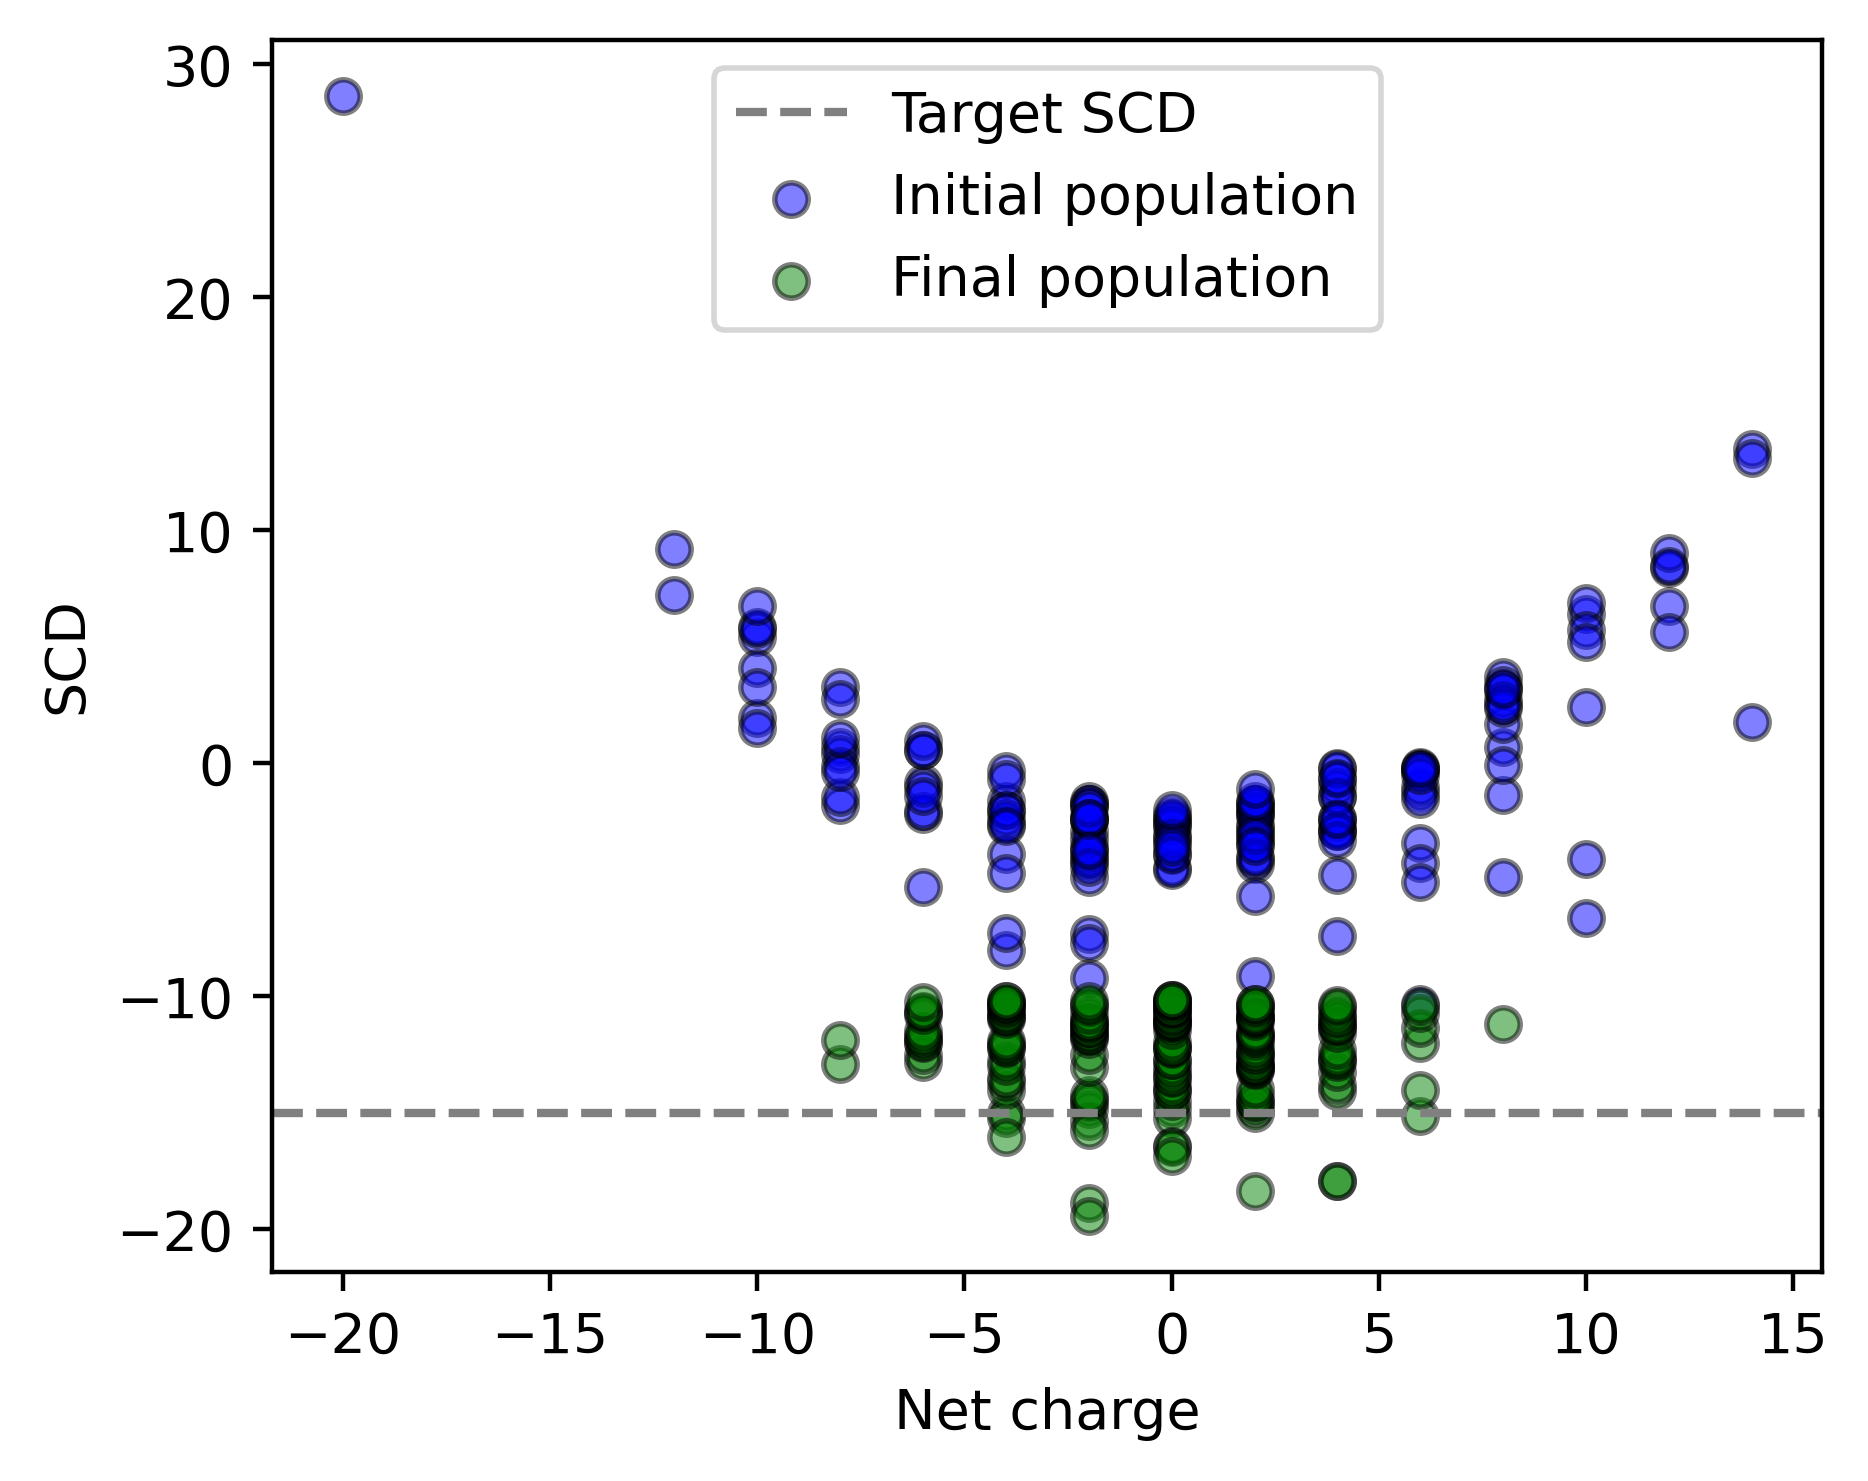
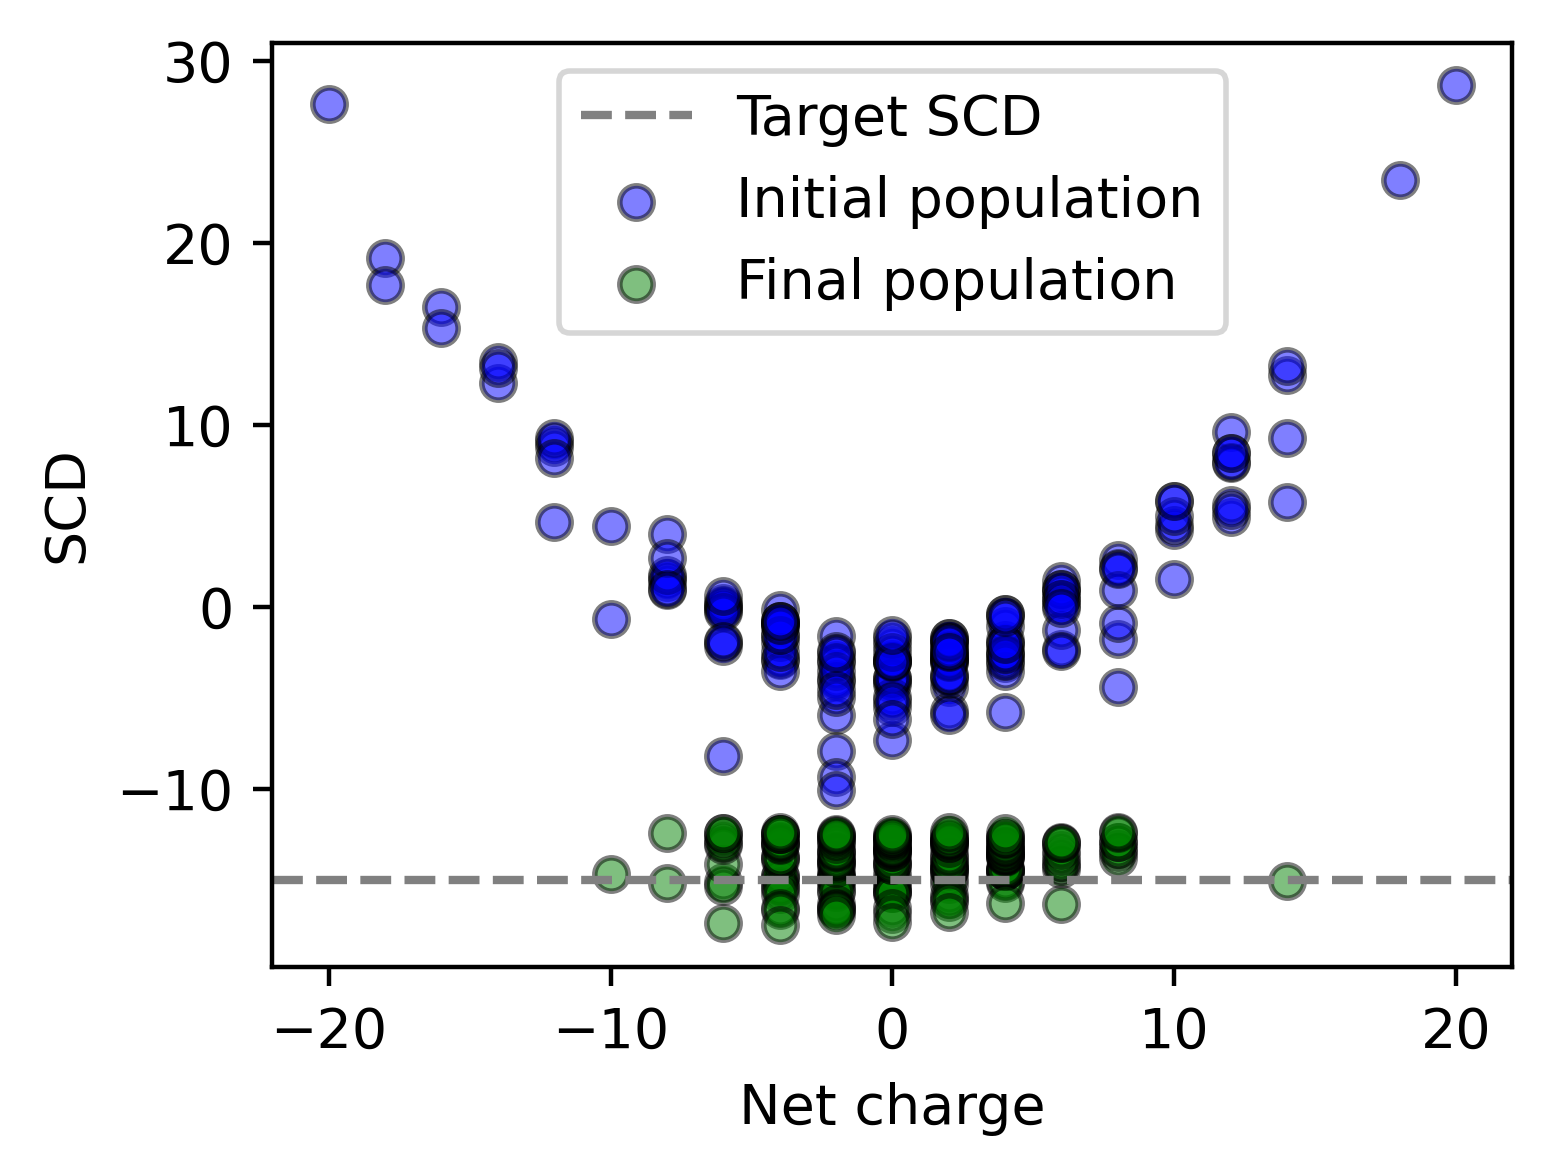
updated figure for categorical example in readme

diff --git a/README.md b/README.md
@@ -98,7 +98,7 @@ def fitness_function(fasta_sequence, target_SCD):
 gene_ranges = [ 'E', 'K' ] # Glutamic acid ('E'), Lysine ('K'),
 
 N = 50 # sequence length
-target_SCD = -10
+target_SCD = -15
 
 # Create a GeneticAlgorithm instance
 ga = lga.GeneticAlgorithm(fitness_function, gene_ranges, 
@@ -107,7 +107,7 @@ ga = lga.GeneticAlgorithm(fitness_function, gene_ranges,
 )
 
 # Run the genetic algorithm
- population = ga.run(n_generations=150, population_size=100)
+ population = ga.run(n_generations=300, population_size=100)
 
 ```
 The genetic algorithm produces a population of sequences with SCD values and net charges as depicted below.
